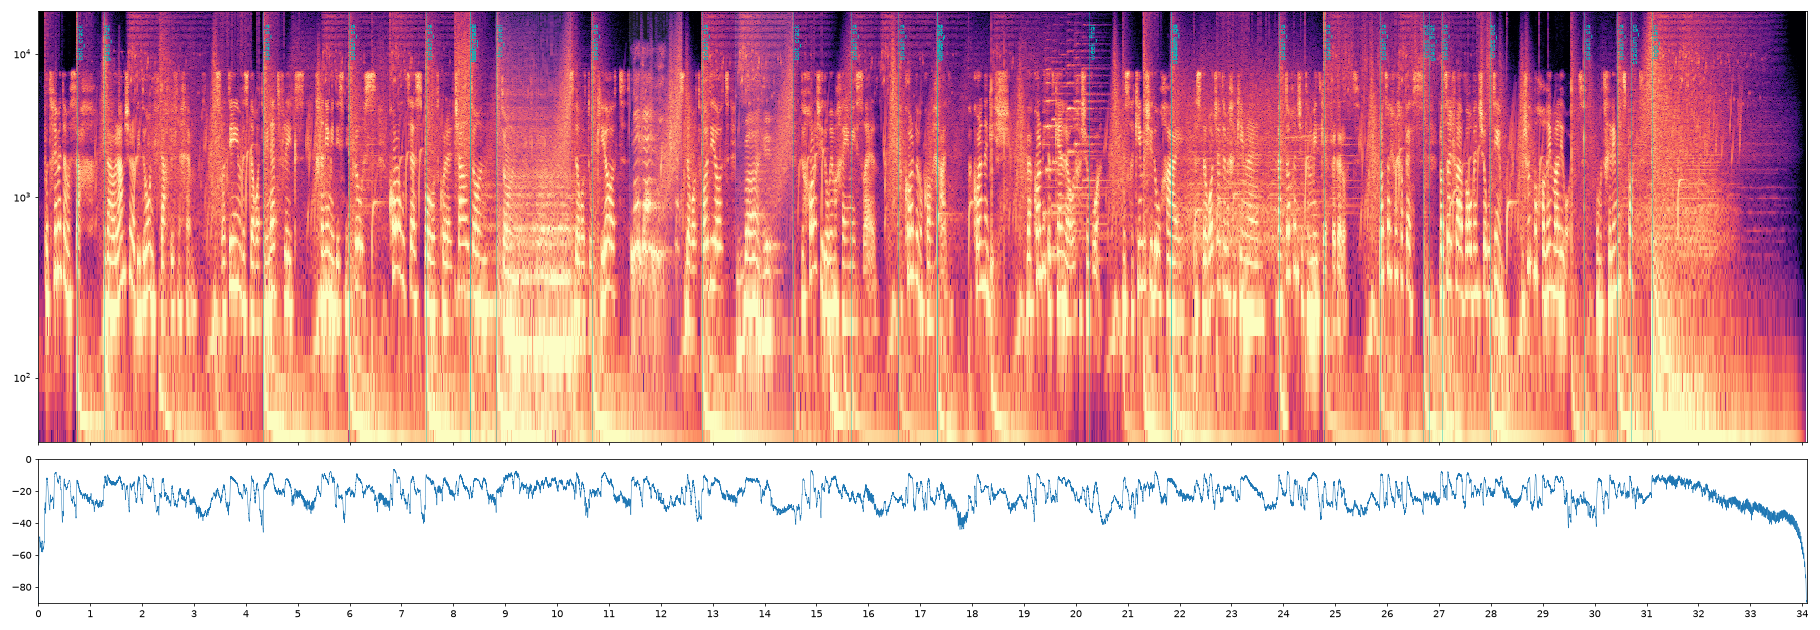
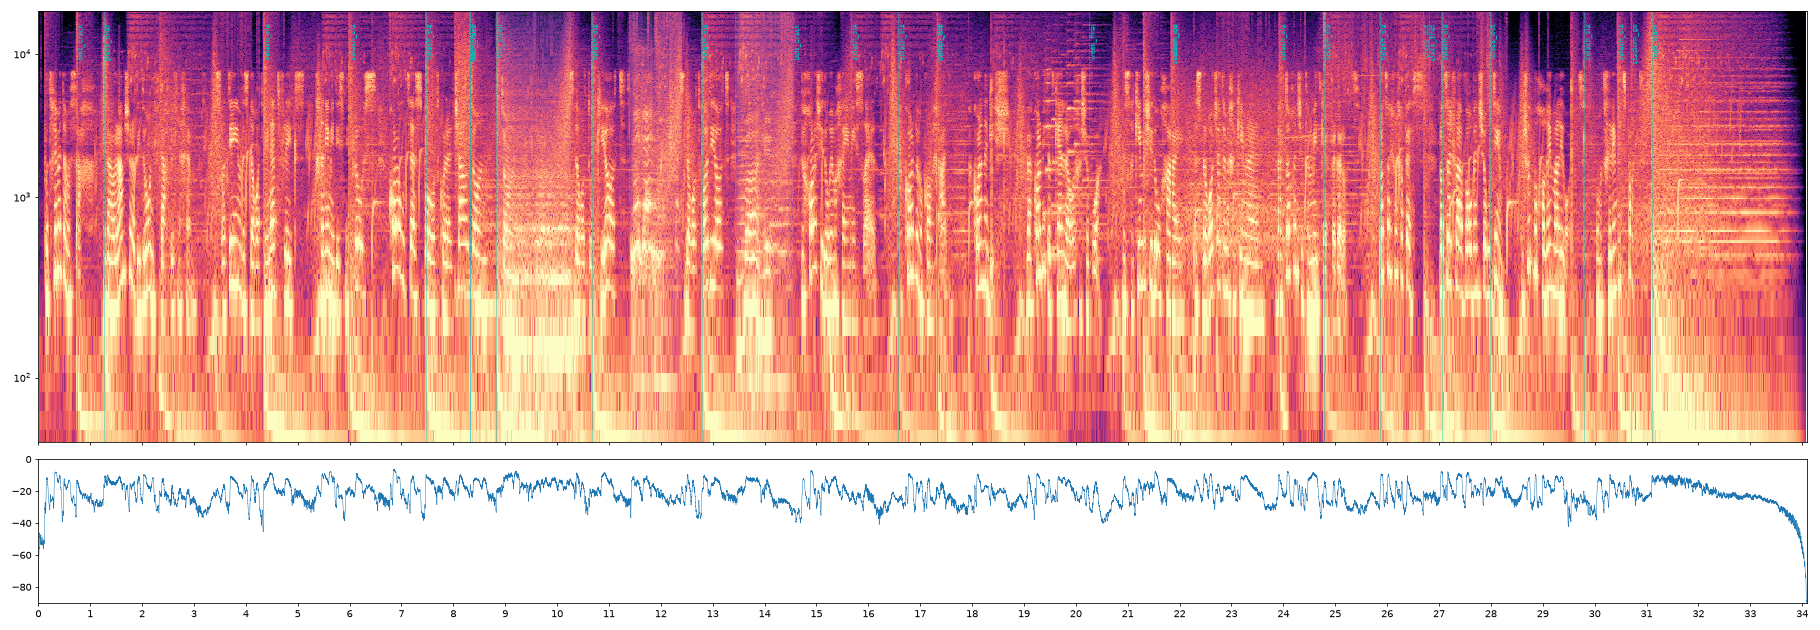
ConnectTV: audio work in progress
Claude-Session: https://claude.ai/code/session_019ZnheDJ4iFehvHns9eft75

diff --git a/connecttv/audio/ctv/base_f.py b/connecttv/audio/ctv/base_f.py
@@ -156,7 +156,7 @@ def mixdown(stems):
     nb = N // blk
     pw = np.convolve((sc[:nb * blk] ** 2).reshape(nb, blk).mean(1), np.ones(10) / 10, mode='same')
     lv = 10 * np.log10(pw + 1e-12)
-    thr, ratio, knee = -20.0, 2.0, 6.0
+    thr, ratio, knee = -23.0, 2.5, 6.0
     over = lv - thr
     gr = np.where(over <= -knee / 2, 0.0, np.where(over >= knee / 2, (1 - 1 / ratio) * over,
                                                    (1 - 1 / ratio) * (over + knee / 2) ** 2 / (2 * knee)))
@@ -171,9 +171,18 @@ def mixdown(stems):
     mix *= gcomp[:, None]
     g1 = 10 ** ((-14.5 - meter.integrated_loudness(mix)) / 20)
     mix *= g1
+    # soft peak shaper (gain applied to mix AND stems so they still sum): tames the tutti-hit crest factor
+    pk = np.max(np.abs(mix), 1)
+    knee0 = 0.45
+    shp = np.where(pk <= knee0, pk, knee0 + (1 - knee0) * np.tanh((pk - knee0) / (1 - knee0)))
+    gsh = shp / np.maximum(pk, 1e-9)
+    mix *= gsh[:, None]
+    g3 = 10 ** ((-14.5 - meter.integrated_loudness(mix)) / 20)
+    mix *= g3
+    g1 = g1 * g3
     # lookahead limiter
     from scipy.ndimage import minimum_filter1d, uniform_filter1d
-    ceil = 10 ** (-1.05 / 20)
+    ceil = 10 ** (-1.6 / 20)
     need = np.minimum(1.0, ceil / np.maximum(np.max(np.abs(mix), 1), 1e-9))
     la = int(0.003 * SR)
     need = minimum_filter1d(need, 2 * la + 1)
@@ -186,10 +195,10 @@ def mixdown(stems):
         lim[i] = pv
     lim = uniform_filter1d(lim, la, mode='nearest')
     mix *= lim[:, None]
-    gt = gcomp * g1 * lim
+    gt = gcomp * g1 * gsh * lim
     for s in STEMS:
         stems[s] *= gt[:, None]
-    g2 = 10 ** (-1.0 / 20) / np.max(np.abs(mix))
+    g2 = 10 ** (-1.5 / 20) / np.max(np.abs(mix))
     mix *= g2
     for s in STEMS:
         stems[s] *= g2

diff --git a/connecttv/audio/ctv/mix_ctv.py b/connecttv/audio/ctv/mix_ctv.py
@@ -521,6 +521,11 @@ def main():
         for w in W:
             wa_, wb_ = int(w['t0'] * SR), max(int(w['e1'] * SR), int(w['t0'] * SR) + 1)
             worst = min(worst, vo_l4[wa_:wb_].max() - ml0[wa_:wb_].max())
+        ph_ = {}
+        for w in W:
+            wa_, wb_ = int(w['t0'] * SR), max(int(w['e1'] * SR), int(w['t0'] * SR) + 1)
+            ph_[w['ph']] = min(ph_.get(w['ph'], 99), vo_l4[wa_:wb_].max() - ml0[wa_:wb_].max())
+        print('VO-music at 0 dB music gain, worst word per phrase:', ' '.join('%d:%.1f' % kv for kv in sorted(ph_.items())))
         mus_gain_db = float(os.environ.get('MUSIC_DB', worst - MUSIC_WORST_DB))
         MUd = MUd * db(mus_gain_db)
         MU_cal = (worst, mus_gain_db)
